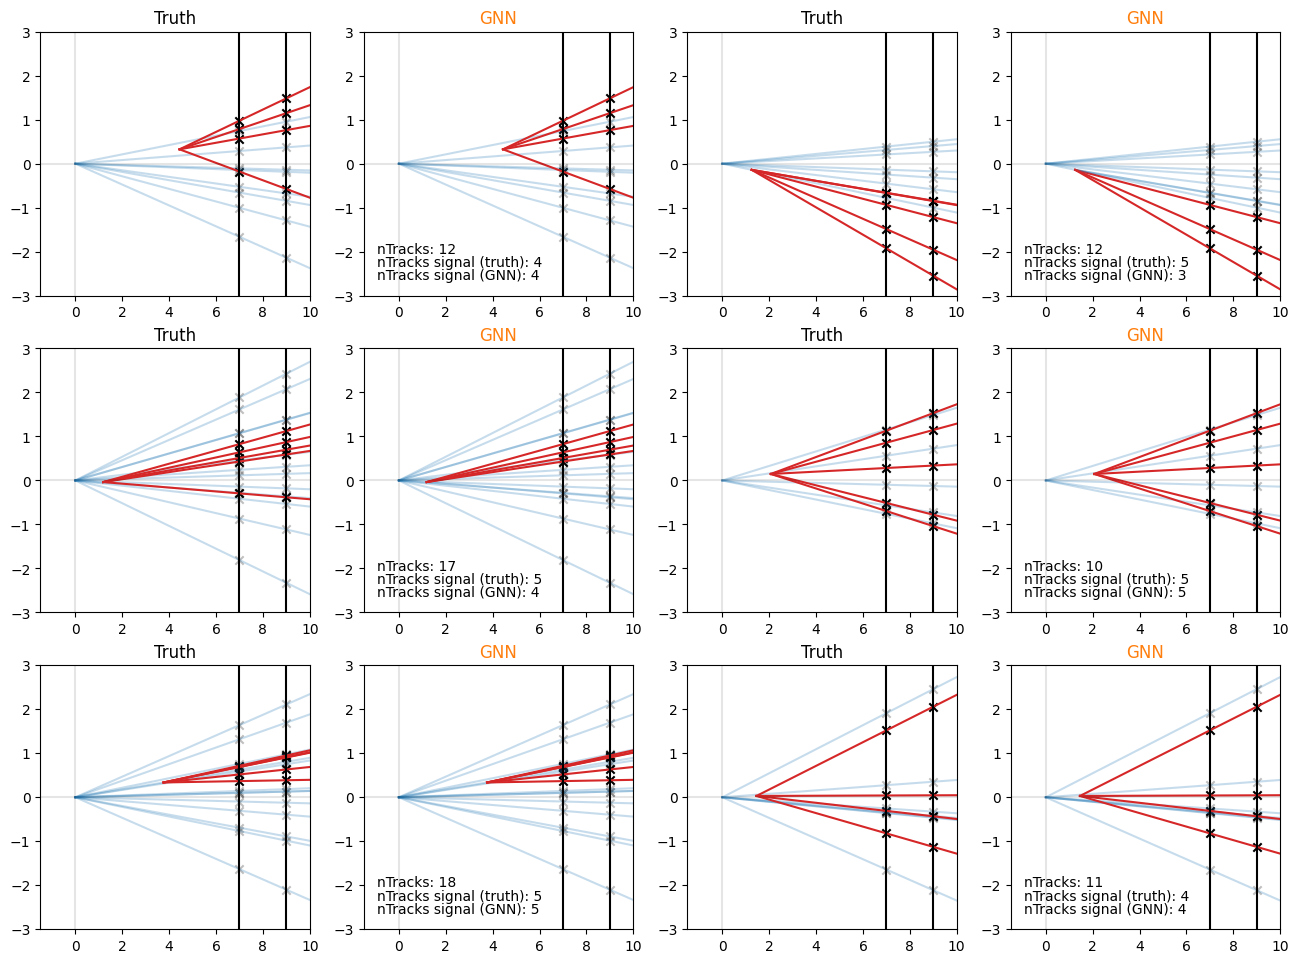
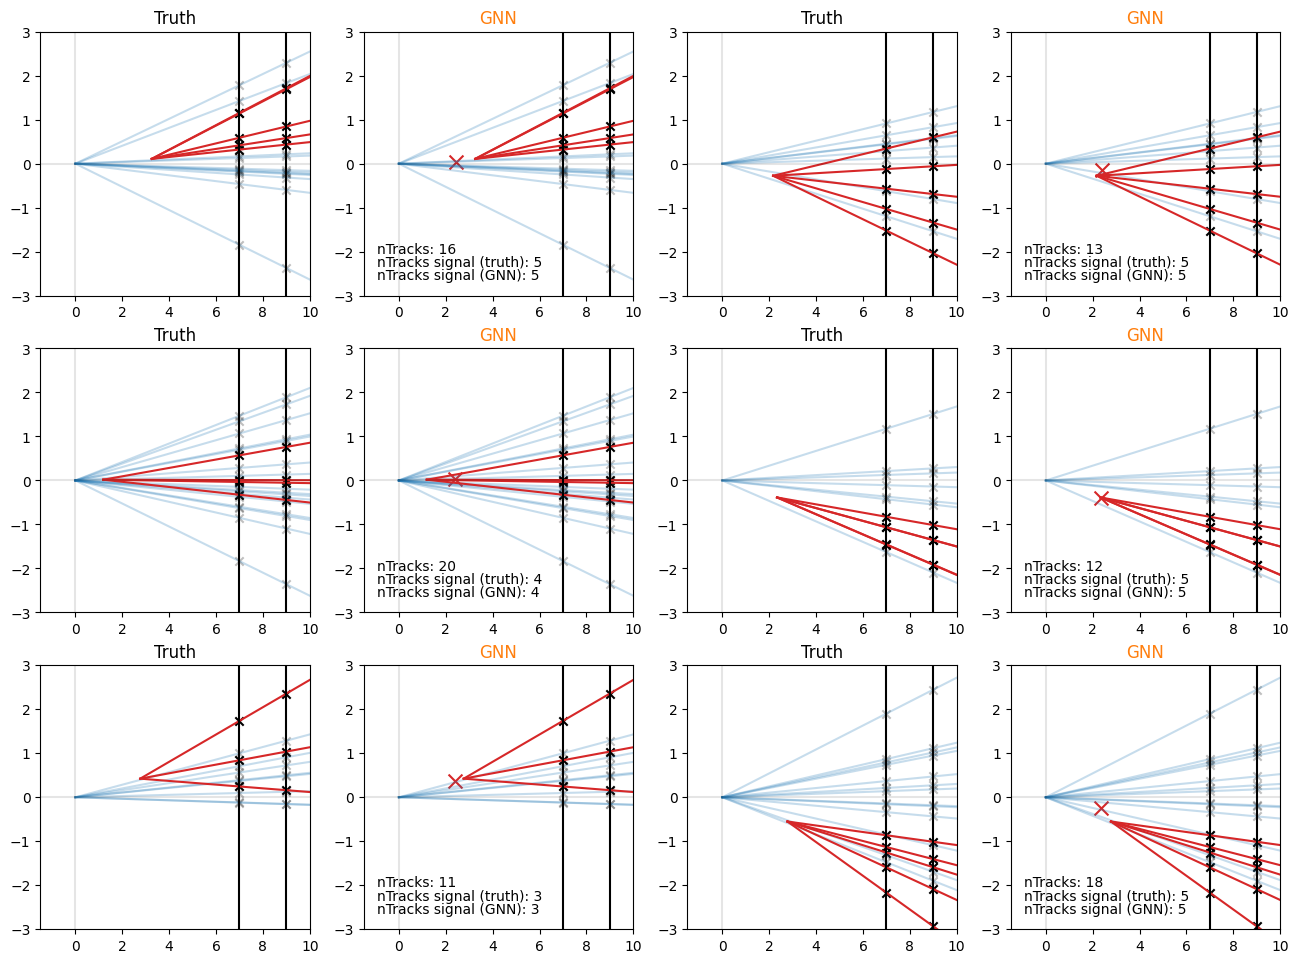
network regression and classifiction tasks

diff --git a/GNN.py b/GNN.py
@@ -15,6 +15,7 @@ from tensorflow.keras.optimizers import Adam
 
 from spektral.data import Dataset, DisjointLoader, Graph
 from spektral.layers import GCSConv
+from spektral.layers import GlobalAvgPool
 from spektral.transforms.normalize_adj import NormalizeAdj
 
 from generator import generate_dataset
@@ -44,7 +45,7 @@ class getDataset(Dataset):
 
         return [make_graph() for _ in range(self.n_samples)]
 
-class MyFirstGNN(Model):
+class GNN(Model):
 
     def __init__(self, n_hidden, n_labels):
         super().__init__()
@@ -52,42 +53,67 @@ class MyFirstGNN(Model):
         self.graph_conv2 = GCSConv(n_hidden)
         self.graph_conv3 = GCSConv(n_hidden)
         self.leaky = LeakyReLU(alpha=0.2)
-        self.dense = Dense(n_labels, 'tanh')
+        self.dense = Dense(n_labels, 'softmax')
+        self.dense2 = Dense(2, 'tanh')
+        self.pool = GlobalAvgPool()
 
     def call(self, inputs):
         x, a, i = inputs
         H = self.graph_conv1([x,a])
         H = self.leaky(H)
+
         H = self.graph_conv2([H,a])
         H = self.leaky(H)
+
         H = self.graph_conv3([H,a])
         H = self.leaky(H)
-        out = self.dense(H)
 
-        return out
+        classes = self.dense(H)
+
+        H = self.pool([x,i])
+        origin = self.dense2(H)
+        
+        return classes, origin
 
 @tf.function(experimental_relax_shapes=True)
 def train(inputs, target):
     with tf.GradientTape(persistent=True) as tape:
-        predictions = model(inputs, training=True)
-        loss = loss_fn(target, predictions) + sum(model.losses)
+        x, a, i = inputs
+        predictions, predictions_origin = model(inputs,training=True)
+
+        classes_target = target[:,2]
+        origin_target = target[:,:2]
+
+        # Bodge job of obtaining labels for the origin vertex. Unclear how to save mulitple different shaped label ojects in spektral - so this is a real fudge.
+        i += 1
+        i_plus = i - tf.roll(i, shift=-1, axis=0)
+        i_plus = tf.cast(i_plus,'float64')
+        origin_target = tf.squeeze(origin_target)
+        i_plus = tf.squeeze(i_plus)
+        i_plus = tf.expand_dims(i_plus,axis=1)
+        origin_target = tf.concat([origin_target,i_plus],axis=1)
+        origin_target = tf.gather(origin_target, tf.where((origin_target[:,2]!=0))[:, 0])[:,:2]
+
+        loss = loss_scc(classes_target, predictions) + 10.*loss_mse(origin_target, predictions_origin) + sum(model.losses)
+
     gradients = tape.gradient(loss, model.trainable_variables)
     optimizer.apply_gradients(zip(gradients, model.trainable_variables))
-    return loss, predictions, target
+
+    return loss
 
 @tf.function(experimental_relax_shapes=True)
 def query(inputs, target):
     with tf.GradientTape(persistent=True) as tape:
         x, a, i = inputs
-        predictions = model([x,a,i], training=False)
-    return predictions, target
+        predictions, predictions_origin = model([x,a,i], training=False)
+    return predictions, predictions_origin, target
 
 
 # Create the network
-optimizer = Adam(lr=1e-2)
-# loss_fn = SparseCategoricalCrossentropy()
-loss_fn = MeanSquaredError()
-model = MyFirstGNN(32, 2) # 2 categories if SparseCategoricalCrossentropy
+optimizer = Adam(lr=1e-2, beta_1=0.5, decay=0, amsgrad=True)
+loss_scc = SparseCategoricalCrossentropy()
+loss_mse = MeanSquaredError()
+model = GNN(32, 2) # 2 categories if SparseCategoricalCrossentropy
 model.compile()
 
 # Create the dataset
@@ -101,7 +127,8 @@ losses = np.empty(0)
 # Enter training loop
 for idx, batch in enumerate(loader):
 
-    A, B, C = train(*batch)
+    A = train(*batch)
+
     losses = np.append(losses,A.numpy())
 
     if idx % 500 == 0: print(idx)
@@ -109,13 +136,10 @@ for idx, batch in enumerate(loader):
     # Saving...
     if idx % save_idx == 0:
 
-        print(B, C)
-        # continue
-
-        if idx == 0: continue
-
         print('Saving...')
         print(idx,'loss:',A.numpy())
+
+        if idx == 0: continue
 
         plt.plot(losses)
         plt.xlabel('step')
@@ -136,12 +160,14 @@ for idx, batch in enumerate(loader):
             if jdx == nTests:
                 break
 
-            predictions, plotting = query(*plotBatch)
+            predictions, predictions_origin, plotting = query(*plotBatch)
 
-            predictions = predictions.numpy()
+            predictions = predictions.numpy()[:,1] # Only need the 2nd column of values - these values represent the probablity of track being in class 1
+            predictions_origin = predictions_origin.numpy()[0]
 
-            predictions[:,0] = predictions[:,0]*6.
-            predictions[:,1] = (predictions[:,1] - 0.5)*4.
+            # Post-processing step - convert x and y NN outputs back to physical values...
+            predictions_origin[0] = predictions_origin[0]*6.
+            predictions_origin[1] = (predictions_origin[1] - 0.5)*4.
 
             plotting = plotting.numpy()[0]
 
@@ -171,14 +197,15 @@ for idx, batch in enumerate(loader):
             ax = plt.subplot(nTests,4,jdx*2+2)
             plt.title('GNN',color='tab:orange')
             for kdx in range(np.shape(points)[0]):   
-                if predictions[kdx][0] < 0.1 and predictions[kdx][1] < 0.1:
+                if predictions[kdx] < 0.5:
                     plt.plot(points[kdx,:-1,0],points[kdx,:-1,1],color='tab:blue',alpha=0.25)
                     plt.scatter(points_at_layers[kdx,:-1,0],points_at_layers[kdx,:-1,1],alpha=0.25,color='k', marker='x')
                 else:
                     plt.plot(points[kdx,:-1,0],points[kdx,:-1,1],color='tab:red')
                     plt.scatter(points_at_layers[kdx,:-1,0],points_at_layers[kdx,:-1,1],alpha=1.,color='k', marker='x')
-                    plt.scatter(predictions[kdx][0],predictions[kdx][1],alpha=1.,color='tab:red', marker='x',s=50)
                     nTracks[2] += 1
+            
+            plt.scatter(predictions_origin[0],predictions_origin[1],alpha=1.,color='tab:red', marker='x',s=100)
 
             plt.text(0.05, 0.15, 'nTracks: %d'%nTracks[0], horizontalalignment='left', verticalalignment='bottom', transform=ax.transAxes)
             plt.text(0.05, 0.1, 'nTracks signal (truth): %d'%nTracks[1], horizontalalignment='left', verticalalignment='bottom', transform=ax.transAxes)

diff --git a/generator.py b/generator.py
@@ -74,21 +74,25 @@ def generate_dataset(nTracks=20, plot=False):
 	diff_x = detector_planes[1]-detector_planes[0]
 	diff_y = points_at_layers[:,0,1] - points_at_layers[:,1,1] 
 	theta = np.arctan(diff_y/(np.ones(np.shape(diff_y))*diff_x))
-	inputs = np.empty((nTracks, 4))
+	inputs = np.empty((nTracks, 5))
 	inputs[:,0] = points_at_layers[:,0,1]
 	inputs[:,1] = theta
 
+	# Pre process. Normalise values to between 0 and 1, in accordance with tanh activation layer at end of NN.
 	origin[:,0] = origin[:,0]/6.
 	origin[:,1] = origin[:,1]/4.+0.5
 
 	inputs[:,2] = origin[:,0]
 	inputs[:,3] = origin[:,1]
 
-	# inputs[:,2] = np.concatenate((np.zeros(nTracks_PV), np.ones(nTracks_B)))
+	inputs[:,4] = np.concatenate((np.zeros(nTracks_PV), np.ones(nTracks_B)))
+
+	# [y coords, angle rads, pre processed x coord of origin, pre processed y coord of origin,, class labels]
+
 	# np.random.shuffle(inputs) # If you want to shuffle, need to shuffle everything - including plotting
 
-	data = inputs[:,:-2]
-	labels = inputs[:,-2:]
+	data = inputs[:,:-3]
+	labels = inputs[:,-3:]
 
 	if plot:
 		for idx in range(nTracks):		

diff --git a/README.md b/README.md
@@ -2,6 +2,6 @@
 
 Simple example of node classification using a simple toy model of a displaced vertex.
 
-![plot](example/example_origin.png)
+Network classifies tracks into signal (red), and background (blue), and predicts the position of the signal vertex.
 
 ![plot](example/example.png)
